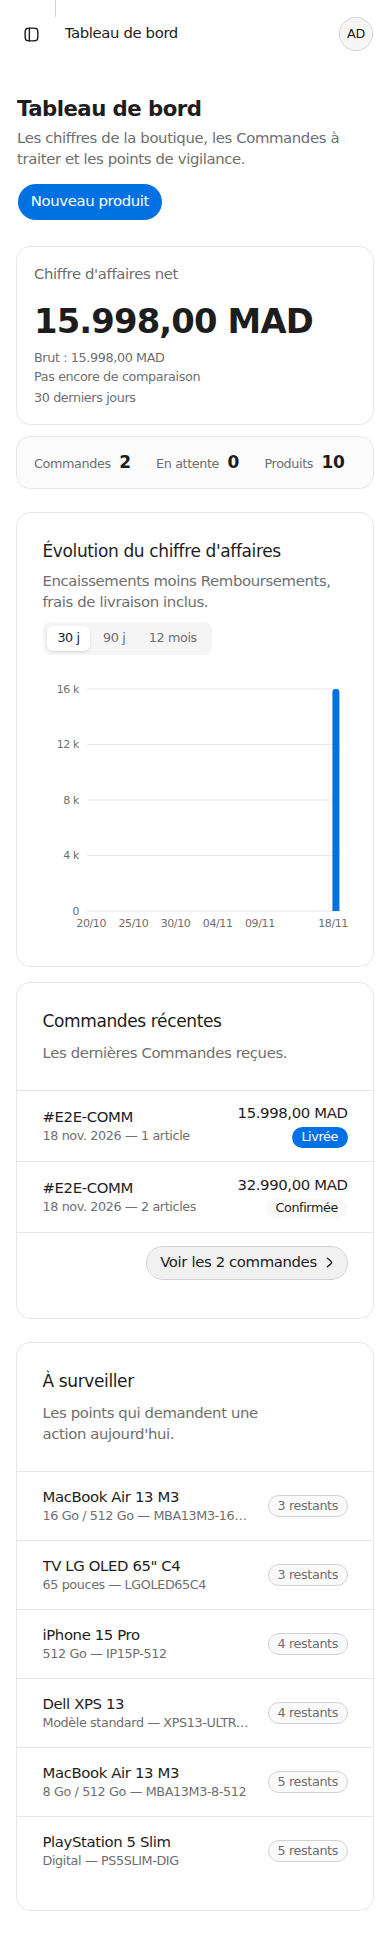
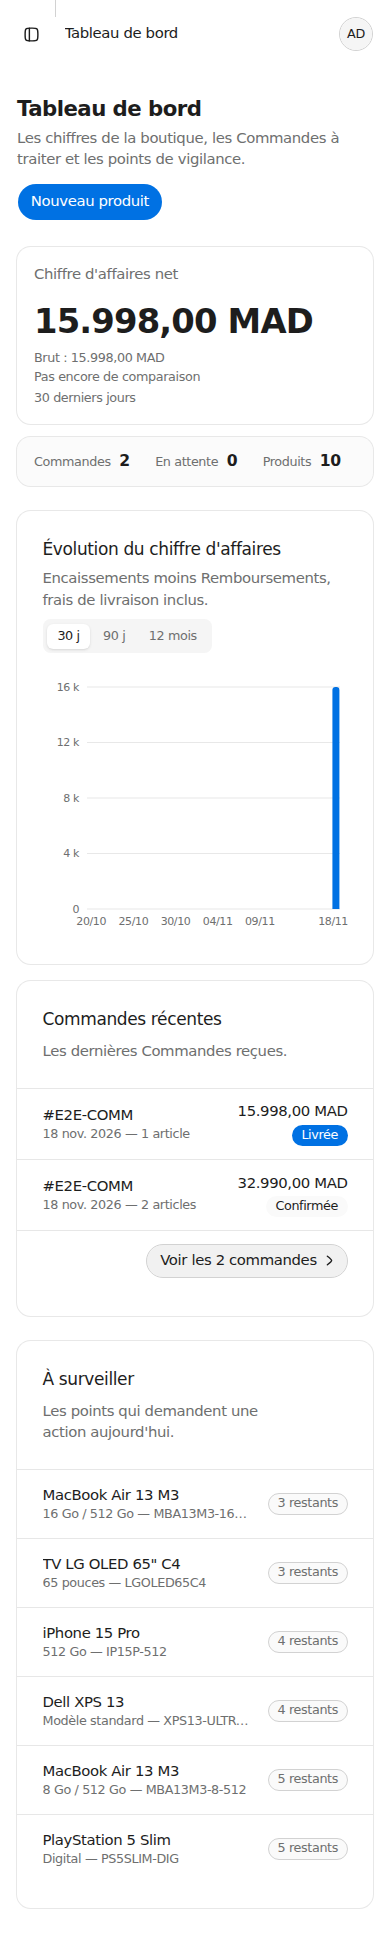
Tune the bandeau figure type so the hierarchy proof passes

diff --git a/test/feuille-de-style-type.test.ts b/test/feuille-de-style-type.test.ts
@@ -13,7 +13,7 @@ const JETONS: Record<string, string> = {
   "--text-hero": "clamp(1.5rem, 10.5cqi, 3.5rem)",
   "--text-hero--line-height": "1.02",
   "--text-hero--letter-spacing": "-0.031em",
-  "--text-chiffre": "clamp(1rem, 4cqi, 1.25rem)",
+  "--text-chiffre": "clamp(0.9rem, 4cqi, 1.25rem)",
   "--text-chiffre--line-height": "1.1",
   "--text-chiffre--letter-spacing": "-0.01em",
 }

diff --git a/app/globals.css b/app/globals.css
@@ -109,7 +109,7 @@
   --text-hero: clamp(1.5rem, 10.5cqi, 3.5rem);
   --text-hero--line-height: 1.02;
   --text-hero--letter-spacing: -0.031em;
-  --text-chiffre: clamp(1rem, 4cqi, 1.25rem);
+  --text-chiffre: clamp(0.9rem, 4cqi, 1.25rem);
   --text-chiffre--line-height: 1.1;
   --text-chiffre--letter-spacing: -0.01em;
 
